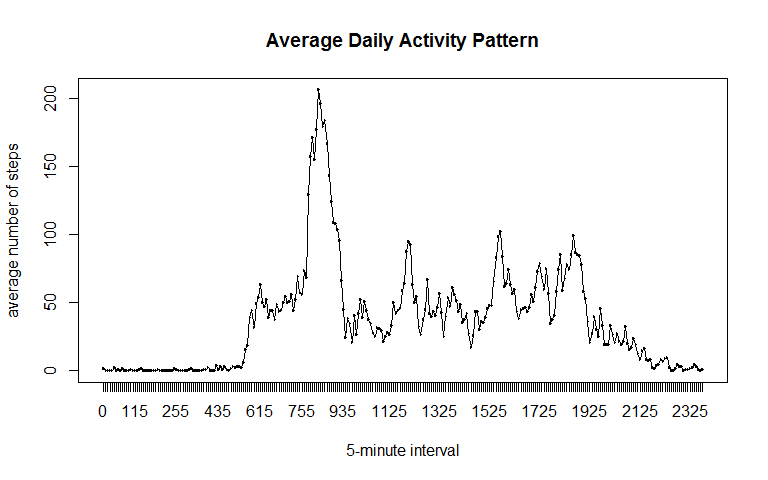
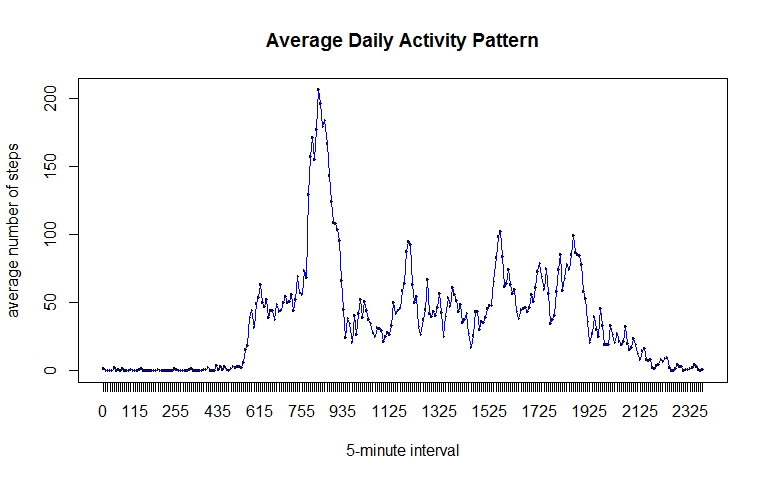
update some formating in PA1_template.rmd

diff --git a/PA1_template.html b/PA1_template.html
@@ -57,9 +57,9 @@ if (window.hljs && document.readyState && document.readyState === "complete") {
 
 <div id="loading-and-preprocessing-the-data" class="section level2">
 <h2>Loading and preprocessing the data</h2>
-<ol style="list-style-type: decimal">
+<ul>
 <li>Load the data (i.e. read.csv())</li>
-</ol>
+</ul>
 <pre class="r"><code># Set to the current working directory
 # Assume activity.csv is in the current working directory
 
@@ -68,29 +68,32 @@ rm(list = ls())
 
 # Load the data 
 activity &lt;- read.csv(&quot;./activity.csv&quot;)</code></pre>
-<ol start="2" style="list-style-type: decimal">
+<ul>
 <li>Process/transform the data (if necessary) into a format suitable for your analysis</li>
-</ol>
+</ul>
 <pre class="r"><code># Remove the rows with &quot;steps=NA&quot; 
 data &lt;- activity[!is.na(activity$steps), ]</code></pre>
 </div>
 <div id="what-is-mean-total-number-of-steps-taken-per-day" class="section level2">
 <h2>What is mean total number of steps taken per day?</h2>
 <p>For this part of the assignment, you can ignore the missing values in the dataset.</p>
-<ol style="list-style-type: decimal">
+<ul>
 <li>Make a histogram of the total number of steps taken each day</li>
-</ol>
+</ul>
 <pre class="r"><code># get the sum of steps for each day
 sum_steps &lt;- aggregate(steps ~ date, data=data, sum)
 
 # plot the barplot
 barplot(sum_steps$steps, names.arg=sum_steps$year, xlab=&quot;&quot;, ylab=&quot;Total number of steps&quot;)</code></pre>
[1 lines of base64/hex data omitted]
-<ol start="2" style="list-style-type: decimal">
+<ul>
 <li>Calculate and report the mean and median total number of steps taken per day</li>
-</ol>
-<pre class="r"><code>mean_steps   &lt;- aggregate(steps ~ date, data=data, mean)
+</ul>
+<pre class="r"><code># aggregate the mean and median of steps for each date. There are 53 rows. 
+mean_steps   &lt;- aggregate(steps ~ date, data=data, mean)
 median_steps &lt;- aggregate(steps ~ date, data=data, median)
+
+# merge the two datasets together
 mean_median_steps &lt;- merge(mean_steps, median_steps, by=&quot;date&quot;)
 names(mean_median_steps) &lt;- c(&quot;Date&quot;, &quot;mean_steps&quot;, &quot;median_steps&quot;)
 print(mean_median_steps, type=&quot;html&quot;)</code></pre>
@@ -151,41 +154,45 @@ print(mean_median_steps, type=&quot;html&quot;)</code></pre>
 </div>
 <div id="what-is-the-average-daily-activity-pattern" class="section level2">
 <h2>What is the average daily activity pattern?</h2>
-<ol style="list-style-type: decimal">
+<ul>
 <li>Make a time series plot (i.e. type = “l”) of the 5-minute interval (x-axis) and the average number of steps taken, averaged across all days (y-axis)</li>
-</ol>
-<pre class="r"><code>data$interval &lt;- factor(data$interval)
+</ul>
+<pre class="r"><code># aggregate the mean of the steps for each 5-minute interval
+data$interval &lt;- factor(data$interval)
 ave_steps_interval &lt;- aggregate(steps ~ interval, data=data, mean)
 
+# plot the diagram
 plot(ave_steps_interval$interval, ave_steps_interval$steps,
            xlab=&quot;5-minute interval&quot;, ylab=&quot;average number of steps&quot;, 
-           main=&quot;Average Daily Activity Pattern&quot;, pch=19)
-lines(ave_steps_interval$interval,ave_steps_interval$steps, type=&quot;l&quot;) </code></pre>
[1 lines of base64/hex data omitted]
-<ol start="2" style="list-style-type: decimal">
+           main=&quot;Average Daily Activity Pattern&quot;)
+lines(ave_steps_interval$interval,ave_steps_interval$steps, type=&quot;l&quot;, col=&quot;blue&quot;) </code></pre>
[1 lines of base64/hex data omitted]
+<ul>
 <li>Which 5-minute interval, on average across all the days in the dataset, contains the maximum number of steps?</li>
-</ol>
-<pre class="r"><code>max_five_minute_interval &lt;- ave_steps_interval[ave_steps_interval$steps==max(ave_steps_interval$steps), ][1]
+</ul>
+<pre class="r"><code># get the max number from tje mean of the steps for each 5-minute interval
+max_five_minute_interval &lt;- ave_steps_interval[ave_steps_interval$steps==max(ave_steps_interval$steps), ][1]
 print(max_five_minute_interval, type=&quot;html&quot;)</code></pre>
 <pre><code>##     interval
 ## 104      835</code></pre>
+<p>The 5-minute interval (835 - 840) has the max number of steps on average across all the days in the dataset.</p>
 </div>
 <div id="imputing-missing-values" class="section level2">
 <h2>Imputing missing values</h2>
 <p>Note that there are a number of days/intervals where there are missing values (coded as NA). The presence of missing days may introduce bias into some calculations or summaries of the data.</p>
-<ol style="list-style-type: decimal">
+<ul>
 <li>Calculate and report the total number of missing values in the dataset (i.e. the total number of rows with NAs)</li>
-</ol>
-<pre class="r"><code>data_na &lt;- activity[is.na(activity$steps), ]
+</ul>
+<pre class="r"><code># get the dataset with steps=NA
+data_na &lt;- activity[is.na(activity$steps), ]
 
 print(nrow(data_na), type=&quot;html&quot;)</code></pre>
 <pre><code>## [1] 2304</code></pre>
-<ol start="2" style="list-style-type: decimal">
+<p>There are 2,304 rows with NAs in the original dataset.</p>
+<ul>
 <li>Devise a strategy for filling in all of the missing values in the dataset. The strategy does not need to be sophisticated. For example, you could use the mean/median for that day, or the mean for that 5-minute interval, etc.</li>
-</ol>
-<pre class="r"><code># Devise imputation strategy for missing data
-print(&quot;Imputation strategy for missing data: Use the mean for the 5-minute interval to replace NA&quot;, type=&quot;html&quot;)</code></pre>
-<pre><code>## [1] &quot;Imputation strategy for missing data: Use the mean for the 5-minute interval to replace NA&quot;</code></pre>
+</ul>
+<p>The imputation strategy for missing data is to use the mean for the 5-minute interval to replace NA</p>
 <pre class="r"><code># use the mean for the 5-minute interval in data frame &quot;ave_steps_interval&quot; to replace NA in data frame &quot;data_na&quot;
 step &lt;-0
 while (step &lt;= 2355)
@@ -199,16 +206,16 @@ while (step &lt;= 2355)
         # Increate steps by 5 minutes
         step &lt;- step + 5
 }</code></pre>
-<ol start="3" style="list-style-type: decimal">
+<ul>
 <li>Create a new dataset that is equal to the original dataset but with the missing data filled in.</li>
-</ol>
-<pre class="r"><code># create a new data frame &quot;new_activity&quot;
+</ul>
+<pre class="r"><code># create a new data frame &quot;new_activity&quot; by combining the 2 datasets
 new_activity &lt;- rbind(data_na, data)
 new_activity$steps &lt;- as.numeric(new_activity$steps)
 new_activity$interval &lt;- factor(new_activity$interval)</code></pre>
-<ol start="4" style="list-style-type: decimal">
+<ul>
 <li>Make a histogram of the total number of steps taken each day and Calculate and report the mean and median total number of steps taken per day. Do these values differ from the estimates from the first part of the assignment? What is the impact of imputing missing data on the estimates of the total daily number of steps?</li>
-</ol>
+</ul>
 <pre class="r"><code># There are 61 days with valid total number of steps
 sum_steps &lt;- aggregate(steps ~ date, data=new_activity, sum)
 
@@ -283,19 +290,18 @@ print(mean_median_steps, type=&quot;html&quot;)</code></pre>
 ## 59 2012-11-28 35.3576389      0.00000
 ## 60 2012-11-29 24.4687500      0.00000
 ## 61 2012-11-30 37.3825996     34.11321</code></pre>
-<pre class="r"><code># Do these values differ from the estimates from the first part of the assignment? 
-print(&quot;Yes, these values diff from the estimates from the 1st part&quot;, type=&quot;html&quot;)</code></pre>
-<pre><code>## [1] &quot;Yes, these values diff from the estimates from the 1st part&quot;</code></pre>
-<pre class="r"><code># What is the impact of imputing missing data on the estimates of the total daily number of steps? 
-print(&quot;Several median values are non-zero after imputing missing data&quot;, type=&quot;html&quot;)</code></pre>
-<pre><code>## [1] &quot;Several median values are non-zero after imputing missing data&quot;</code></pre>
+<p>From the above data analysis, we conclude that</p>
+<ul>
+<li><p>Do these values differ from the estimates from the first part of the assignment? The answer is: for the existing rows (dates), there are no changes. There are 8 new dates with mean and median values added after imputing missing data.</p></li>
+<li><p>What is the impact of imputing missing data on the estimates of the total daily number of steps? There are 8 new dates with mean and median values added after imputing missing data. For example, there are the mean and medan for 2012-10-01 which is missing from the 1st part. The 1st part before imputing missing data has only 53 rows. The 2nd part after imputing missing data has 61 rows.</p></li>
+</ul>
 </div>
 <div id="are-there-differences-in-activity-patterns-between-weekdays-and-weekends" class="section level2">
 <h2>Are there differences in activity patterns between weekdays and weekends?</h2>
 <p>For this part the weekdays() function may be of some help here. Use the dataset with the filled-in missing values for this part.</p>
-<ol style="list-style-type: decimal">
+<ul>
 <li>Create a new factor variable in the dataset with two levels - “weekday” and “weekend” indicating whether a given date is a weekday or weekend day.</li>
-</ol>
+</ul>
 <pre class="r"><code># add a new column&quot;weekdayorweekend&quot; to the new data set &quot;new_activity&quot;
 new_activity$weekdayorweekend &lt;- weekdays(as.Date(levels(new_activity$date)[new_activity$date]))
 
@@ -311,9 +317,9 @@ new_activity_weekday$weekdayorweekend &lt;- rep(&quot;weekday&quot;, nrow(new_ac
 new_data &lt;- rbind(new_activity_weekend, new_activity_weekday)
 new_data$steps &lt;- as.numeric(new_data$steps)
 new_data$weekdayorweekend &lt;- factor(new_data$weekdayorweekend)</code></pre>
-<ol start="2" style="list-style-type: decimal">
+<ul>
 <li>Make a panel plot containing a time series plot (i.e. type = “l”) of the 5-minute interval (x-axis) and the average number of steps taken, averaged across all weekday days or weekend days (y-axis). See the README file in the GitHub repository to see an example of what this plot should look like using simulated data.</li>
-</ol>
+</ul>
 <pre class="r"><code>mean_steps_weekday &lt;- aggregate(steps ~ interval, data=new_activity_weekday, mean)
 mean_steps_weekend &lt;- aggregate(steps ~ interval, data=new_activity_weekend, mean)
 
@@ -331,6 +337,7 @@ plot(mean_steps_weekday$interval, mean_steps_weekday$steps, type=&quot;l&quot;, 
 mtext(&quot;Number of steps&quot;, side=2, outer=TRUE)
 mtext(&quot;Interval&quot;, side=1, outer=TRUE)</code></pre>
[1 lines of base64/hex data omitted]
+<p>From the above plots, we find there are differences in activity patterns between weekdays and weekends, especially in the middle section of the diagrams.</p>
 </div>
 
 

diff --git a/PA1_template.md b/PA1_template.md
@@ -3,7 +3,7 @@
 
 ## Loading and preprocessing the data
 
-1. Load the data (i.e. read.csv())
+- Load the data (i.e. read.csv())
 
 ```r
 # Set to the current working directory
@@ -15,8 +15,8 @@ rm(list = ls())
 # Load the data 
 activity <- read.csv("./activity.csv")
 ```
-
-2. Process/transform the data (if necessary) into a format suitable for your analysis
+  
+- Process/transform the data (if necessary) into a format suitable for your analysis
 
 ```r
 # Remove the rows with "steps=NA" 
@@ -26,9 +26,10 @@ data <- activity[!is.na(activity$steps), ]
 
 ## What is mean total number of steps taken per day?
 
-For this part of the assignment, you can ignore the missing values in the dataset.
+For this part of the assignment, you can ignore the missing values in the dataset.  
 
-1. Make a histogram of the total number of steps taken each day
+- Make a histogram of the total number of steps taken each day
+
 
 ```r
 # get the sum of steps for each day
@@ -40,11 +41,15 @@ barplot(sum_steps$steps, names.arg=sum_steps$year, xlab="", ylab="Total number o
 
 ![](PA1_template_files/figure-html/unnamed-chunk-3-1.png) 
 
-2. Calculate and report the mean and median total number of steps taken per day
+- Calculate and report the mean and median total number of steps taken per day
+
 
 ```r
+# aggregate the mean and median of steps for each date. There are 53 rows. 
 mean_steps   <- aggregate(steps ~ date, data=data, mean)
 median_steps <- aggregate(steps ~ date, data=data, median)
+
+# merge the two datasets together
 mean_median_steps <- merge(mean_steps, median_steps, by="date")
 names(mean_median_steps) <- c("Date", "mean_steps", "median_steps")
 print(mean_median_steps, type="html")
@@ -109,25 +114,28 @@ print(mean_median_steps, type="html")
 
 ## What is the average daily activity pattern?
 
-1. Make a time series plot (i.e. type = "l") of the 5-minute interval (x-axis) and the average number of steps taken, averaged across all days (y-axis)
+- Make a time series plot (i.e. type = "l") of the 5-minute interval (x-axis) and the average number of steps taken, averaged across all days (y-axis)
 
 
 ```r
+# aggregate the mean of the steps for each 5-minute interval
 data$interval <- factor(data$interval)
 ave_steps_interval <- aggregate(steps ~ interval, data=data, mean)
 
+# plot the diagram
 plot(ave_steps_interval$interval, ave_steps_interval$steps,
            xlab="5-minute interval", ylab="average number of steps", 
-           main="Average Daily Activity Pattern", pch=19)
-lines(ave_steps_interval$interval,ave_steps_interval$steps, type="l") 
+           main="Average Daily Activity Pattern")
+lines(ave_steps_interval$interval,ave_steps_interval$steps, type="l", col="blue") 
 ```
 
 ![](PA1_template_files/figure-html/unnamed-chunk-4-1.png) 
 
-2. Which 5-minute interval, on average across all the days in the dataset, contains the maximum number of steps?
+- Which 5-minute interval, on average across all the days in the dataset, contains the maximum number of steps?
 
 
 ```r
+# get the max number from tje mean of the steps for each 5-minute interval
 max_five_minute_interval <- ave_steps_interval[ave_steps_interval$steps==max(ave_steps_interval$steps), ][1]
 print(max_five_minute_interval, type="html")
 ```
@@ -137,14 +145,17 @@ print(max_five_minute_interval, type="html")
 ## 104      835
 ```
 
+The 5-minute interval (835 - 840) has the max number of steps on average across all the days in the dataset.  
+
 ## Imputing missing values
 
-Note that there are a number of days/intervals where there are missing values (coded as NA). The presence of missing days may introduce bias into some calculations or summaries of the data.
+Note that there are a number of days/intervals where there are missing values (coded as NA). The presence of missing days may introduce bias into some calculations or summaries of the data.  
 
-1. Calculate and report the total number of missing values in the dataset (i.e. the total number of rows with NAs)  
+- Calculate and report the total number of missing values in the dataset (i.e. the total number of rows with NAs)  
 
 
 ```r
+# get the dataset with steps=NA
 data_na <- activity[is.na(activity$steps), ]
 
 print(nrow(data_na), type="html")
@@ -154,17 +165,11 @@ print(nrow(data_na), type="html")
 ## [1] 2304
 ```
 
-2. Devise a strategy for filling in all of the missing values in the dataset. The strategy does not need to be sophisticated. For example, you could use the mean/median for that day, or the mean for that 5-minute interval, etc.  
+There are 2,304 rows with NAs in the original dataset.  
 
+- Devise a strategy for filling in all of the missing values in the dataset. The strategy does not need to be sophisticated. For example, you could use the mean/median for that day, or the mean for that 5-minute interval, etc.    
 
-```r
-# Devise imputation strategy for missing data
-print("Imputation strategy for missing data: Use the mean for the 5-minute interval to replace NA", type="html")
-```
-
-```
-## [1] "Imputation strategy for missing data: Use the mean for the 5-minute interval to replace NA"
-```
+The imputation strategy for missing data is to use the mean for the 5-minute interval to replace NA
 
 
 ```r
@@ -183,17 +188,17 @@ while (step <= 2355)
 }
 ```
 
-3. Create a new dataset that is equal to the original dataset but with the missing data filled in.  
+- Create a new dataset that is equal to the original dataset but with the missing data filled in.  
 
 
 ```r
-# create a new data frame "new_activity"
+# create a new data frame "new_activity" by combining the 2 datasets
 new_activity <- rbind(data_na, data)
 new_activity$steps <- as.numeric(new_activity$steps)
 new_activity$interval <- factor(new_activity$interval)
 ```
 
-4. Make a histogram of the total number of steps taken each day and Calculate and report the mean and median total number of steps taken per day. Do these values differ from the estimates from the first part of the assignment? What is the impact of imputing missing data on the estimates of the total daily number of steps? 
+- Make a histogram of the total number of steps taken each day and Calculate and report the mean and median total number of steps taken per day. Do these values differ from the estimates from the first part of the assignment? What is the impact of imputing missing data on the estimates of the total daily number of steps? 
 
 
 ```r
@@ -204,7 +209,7 @@ sum_steps <- aggregate(steps ~ date, data=new_activity, sum)
 barplot(sum_steps$steps, names.arg=sum_steps$year, xlab="", ylab="Total number of steps")
 ```
 
-![](PA1_template_files/figure-html/unnamed-chunk-10-1.png) 
+![](PA1_template_files/figure-html/unnamed-chunk-9-1.png) 
 
 
 ```r
@@ -281,29 +286,18 @@ print(mean_median_steps, type="html")
 ## 61 2012-11-30 37.3825996     34.11321
 ```
 
+From the above data analysis, we conclude that  
 
-```r
-# Do these values differ from the estimates from the first part of the assignment? 
-print("Yes, these values diff from the estimates from the 1st part", type="html")
-```
+- Do these values differ from the estimates from the first part of the assignment? The answer is: for the existing rows (dates), there are no changes. There are 8 new dates with mean and median values added after imputing missing data.     
 
-```
-## [1] "Yes, these values diff from the estimates from the 1st part"
-```
+- What is the impact of imputing missing data on the estimates of the total daily number of steps? There are 8 new dates with mean and median values added after imputing missing data. For example, there are the mean and medan for 2012-10-01 which is  missing from the 1st part. The 1st part before imputing missing data has only 53 rows. The 2nd part after imputing missing data has 61 rows.   
 
-```r
-# What is the impact of imputing missing data on the estimates of the total daily number of steps? 
-print("Several median values are non-zero after imputing missing data", type="html")
-```
 
-```
-## [1] "Several median values are non-zero after imputing missing data"
-```
 ## Are there differences in activity patterns between weekdays and weekends?
 
 For this part the weekdays() function may be of some help here. Use the dataset with the filled-in missing values for this part.  
 
-1. Create a new factor variable in the dataset with two levels - "weekday" and "weekend" indicating whether a given date is a weekday or weekend day.  
+- Create a new factor variable in the dataset with two levels - "weekday" and "weekend" indicating whether a given date is a weekday or weekend day.  
 
 
 ```r
@@ -324,7 +318,7 @@ new_data$steps <- as.numeric(new_data$steps)
 new_data$weekdayorweekend <- factor(new_data$weekdayorweekend)
 ```
 
-2. Make a panel plot containing a time series plot (i.e. type = "l") of the 5-minute interval (x-axis) and the average number of steps taken, averaged across all weekday days or weekend days (y-axis). See the README file in the GitHub repository to see an example of what this plot should look like using simulated data.  
+- Make a panel plot containing a time series plot (i.e. type = "l") of the 5-minute interval (x-axis) and the average number of steps taken, averaged across all weekday days or weekend days (y-axis). See the README file in the GitHub repository to see an example of what this plot should look like using simulated data.  
 
 
 ```r
@@ -346,4 +340,7 @@ mtext("Number of steps", side=2, outer=TRUE)
 mtext("Interval", side=1, outer=TRUE)
 ```
 
-![](PA1_template_files/figure-html/unnamed-chunk-14-1.png) 
+![](PA1_template_files/figure-html/unnamed-chunk-12-1.png) 
+
+From the above plots, we find there are differences in activity patterns between weekdays and weekends, especially in the middle section of the diagrams.  
+
